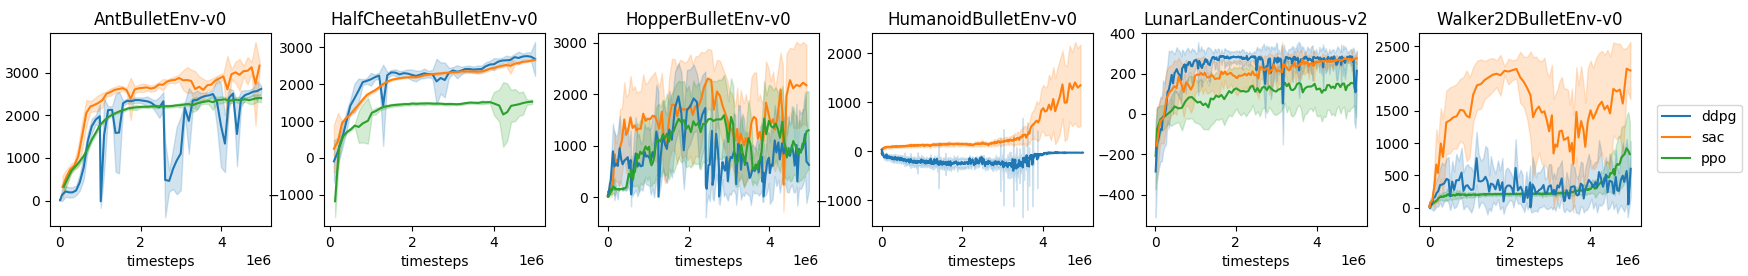
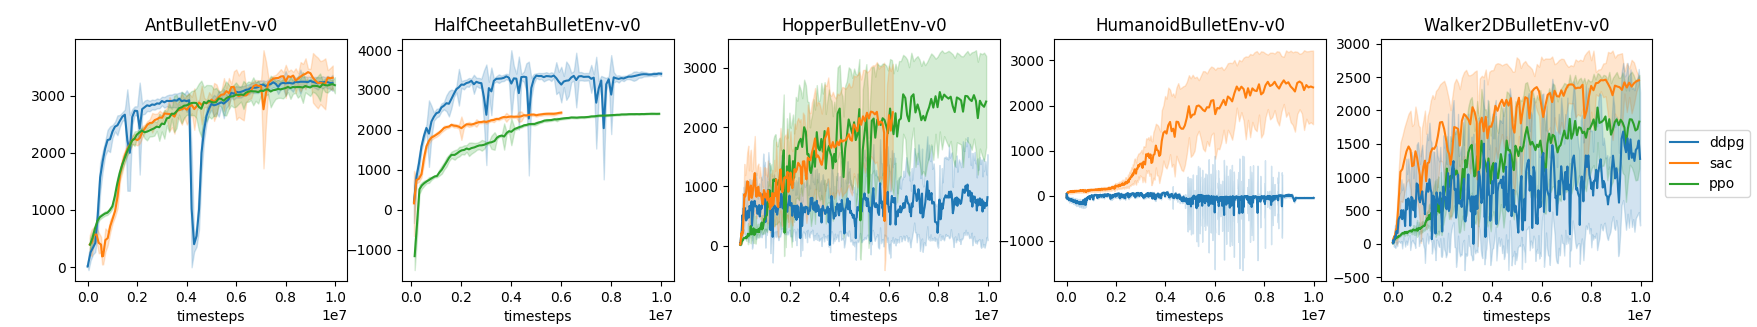
add pybullet benchmark results/discussion

diff --git a/docs/source/guide/benchmark_performance.rst b/docs/source/guide/benchmark_performance.rst
@@ -6,11 +6,11 @@ For this reason, in order to ensuring the correctness of the preset agents provi
 we benchmark each algorithm after every major change.
 We also discuss the performance of our implementations relative to published results.
 
-Atari Presets
--------------
+Atari Benchmark
+---------------
 
-To benchmark the Atari presets, we ran each agent for 10 million timesteps (40 million in-game frames).
-The learning rate is decayed over the course of training using cosine annealing.
+To benchmark the ``all.presets.atari`` presets, we ran each agent for 10 million timesteps (40 million in-game frames).
+The learning rate was decayed over the course of training using cosine annealing.
 The environment implementation uses the following wrappers:
 
 * NoopResetEnv (adds a random number of noops at the beginning of each game reset)
@@ -38,3 +38,26 @@ We can see that at the 10 million timestep mark, our results are similar or slig
 Our ``dqn`` and ``ddqn`` in particular were better almost across the board.
 While there are almost certainly some minor implementation differences,
 our agents achieved very similar behavior to the agents tested by DeepMind.
+
+PyBullet Benchmark
+------------------
+
+[PyBullet](https://pybullet.org/wordpress/) provides a free alternative to the popular MuJoCo robots environments.
+While MuJoCo requires a license key and can be difficult for independent researchers to afford, PyBullet is free and open.
+Additionally, the PyBullet environments are widely considered more challenging, making them a more discriminant test bed.
+For these reasons, we chose to benchmark the ``all.presets.continuous`` presets using PyBullet.
+
+Similar to the Atari benchmark, we ran each agent for 10 million timesteps (in this case, timesteps are equal to frames).
+The learning rate was decayed over the course of training using cosine annealing.
+To reduce the variance of the updates, we added an extra time feature to the state (t * 0.001, where t is the current timestep).
+The results were as follows:
+
+.. image:: ../../../benchmarks/pybullet.png
+
+PPO was omitted from the plot for Humanoid because it achieved very large negative returns which interfered with the scale of the graph.
+Note, however, that our implementation of soft actor-critic (SAC) is able to solve even this difficult environment.
+
+Because most research papers still use MuJoCo, direct comparisons are difficult to come by.
+However, George Sung helpfully benchmarked TD3 and DDPG on several PyBullet environments [here](https://github.com/georgesung/TD3).
+However, he only ran each environment for 1 million timesteps and tuned his hyperparameters accordingly.
+Generally, our agents achieved higher final perfomance but converged more slowly.
